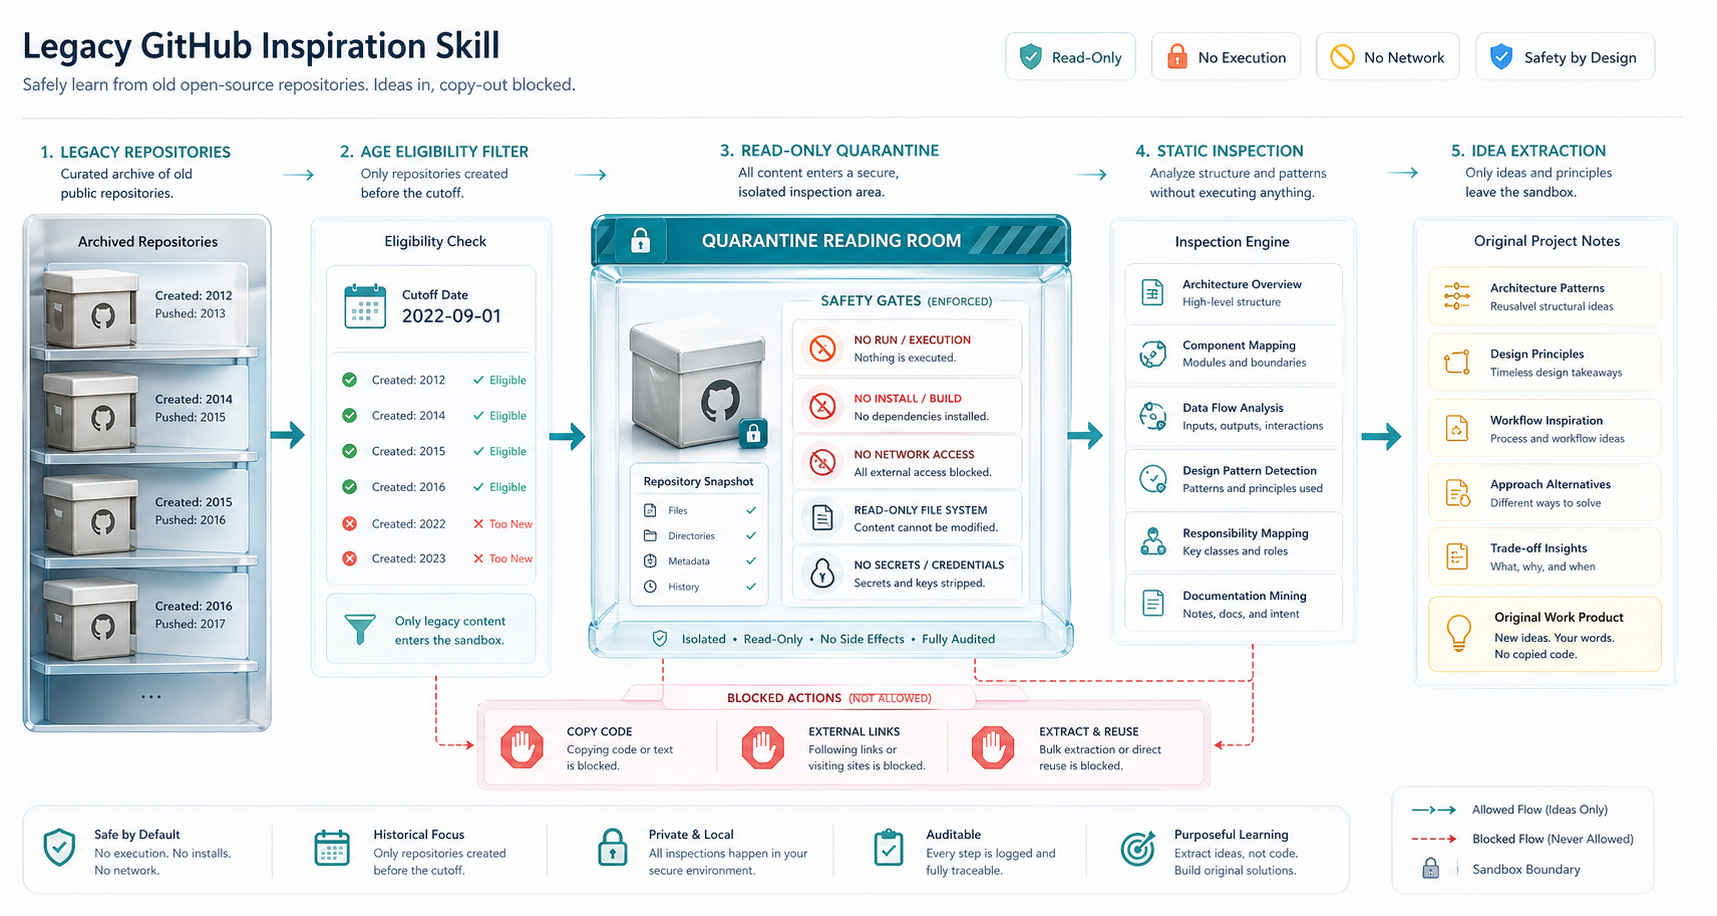
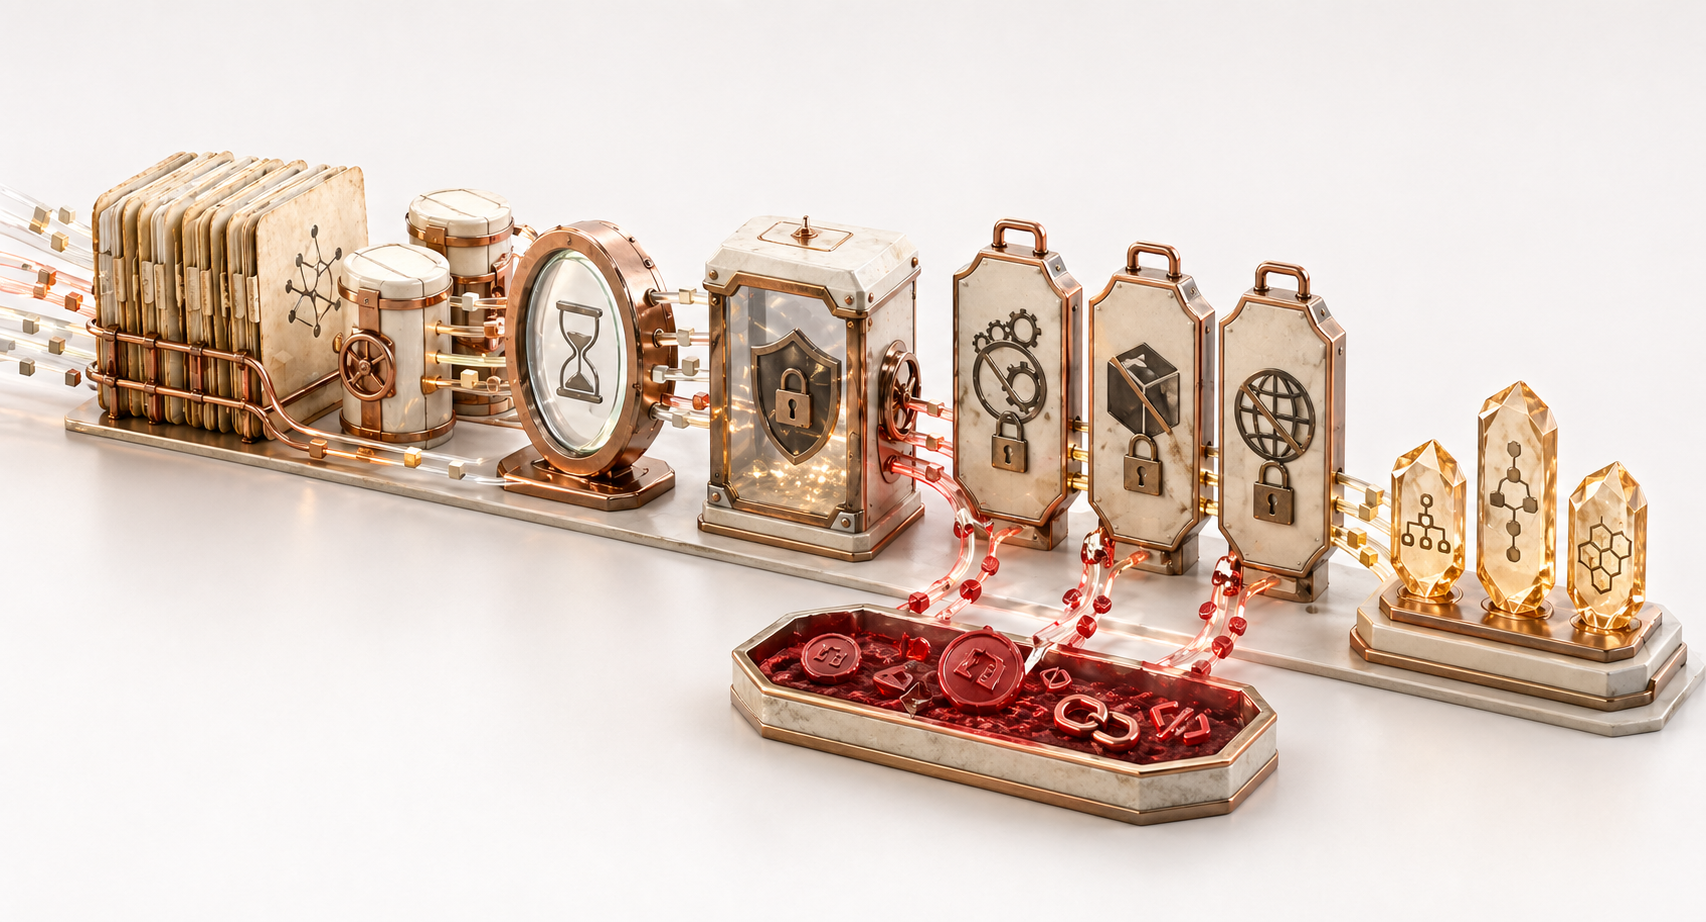
Replace README hero with artful workflow visual

diff --git a/assets/readme-hero/hero_prompt.md b/assets/readme-hero/hero_prompt.md
@@ -1,3 +1,3 @@
 # README Hero Prompt
 
-Create a bright wide GitHub README concept hero image for Legacy GitHub Inspiration Skill. Style: premium conceptual product diagram, semi-realistic 3D schematic, clean light background, teal/blue/amber safety accents, professional but not dark. Visual meaning: old GitHub repositories enter from the left as archived repository packages, pass through an age eligibility filter, a read-only quarantine boundary, no-run/no-install/no-network safety gates, and static file inspection, then only high-level architecture patterns and design principles exit on the right as original project notes. Show copied code blocked and external links blocked as visual stop signs, but keep the overall design bright and clean. Make the purpose obvious: safely learn ideas from old repositories without executing or copying them. Use an infographic-like flow with archive shelves, locks, filters, arrows, neutral idea cards, and a clear transformation boundary. Composition: wide airy banner, conceptual safety funnel, no humanoid robot, no dark archive room. Avoid: people, robots watching screens, dark scene, wall of monitors, real repository names, readable code blocks, cartoon style, anime, childish illustration, watermark, logo, Chinese text, long paragraphs, gibberish text.
+Create a bright wide GitHub README concept hero image for Legacy GitHub Inspiration Skill. Premium art-directed conceptual workflow visual, semi-realistic 3D product-object render, clean light studio background, modern but with archival character. Use a distinct material language: ivory archival paper folios, copper rails and locks, matte enamel safety gates, red wax-like quarantine seals, and a few amber resin idea crystals; avoid a glass-dominated look. No words, no labels, no letters, no logo, no UI text anywhere in the image. Visual meaning: old repository folios and sealed archive capsules enter from the left, pass through an age-filter lens and a read-only quarantine chamber, then through locked no-run, no-install, and no-network barriers represented by icon-only locks and shield shapes; copied-code fragments and external-link sparks are diverted into a red safety sink; only abstract design-pattern idea crystals emerge on the right. Make the purpose obvious visually: safely learn high-level design ideas from old repositories without executing or copying them. Composition: wide airy banner, elegant safety-funnel workflow, refined dimensional objects, clear left-to-right stages, soft shadows, no humanoid robot, no people, no dark archive room, no wall of screens. Avoid real repository names, code paragraphs, generic dashboard, flat checklist, cartoon style, anime, childish illustration, watermark, readable text, pseudo text, Chinese text, gibberish text.

diff --git a/assets/readme-hero/hero_design_note.md b/assets/readme-hero/hero_design_note.md
@@ -22,15 +22,19 @@ A safety-bounded Codex skill for turning old GitHub repositories into read-only 
 
 ## Visual concept
 
-A bright safety-funnel diagram where legacy repositories pass through age filtering, read-only quarantine, no-run/no-install/no-network gates, static inspection, and idea-only extraction.
+A bright archival safety funnel where old repository folios move through age filtering, quarantine, locked safety barriers, risk diversion, and idea-only extraction.
+
+## Material language
+
+Ivory archival paper, copper rails and locks, matte enamel safety gates, red wax-like quarantine seals, and amber resin idea crystals.
 
 ## Image keywords
 
-bright conceptual schematic, legacy repositories, age filter, read-only quarantine, safety gates, idea extraction
+premium workflow visual, legacy repositories, read-only archive, safety gates, quarantine seals, idea extraction
 
 ## Generation method
 
-Direct project-specific text-to-image generation using a bright conceptual schematic direction. This hero is not a reused SVG, HTML, Canvas, Pillow, robot-screen scene, or dark dashboard template.
+Direct project-specific text-to-image generation using a premium art-directed product-object workflow direction. The prompt used archival paper, copper, enamel, wax-seal, and resin materials so the image reads as safe old-repo inspection rather than a generic tech diagram.
 
 ## File paths
 
@@ -40,4 +44,4 @@ Direct project-specific text-to-image generation using a bright conceptual schem
 
 ## README insertion position
 
-Updated the existing README HERO block after the first H1 heading.
+Existing README HERO block after the first H1 heading; image file replaced without rewriting the README body.
